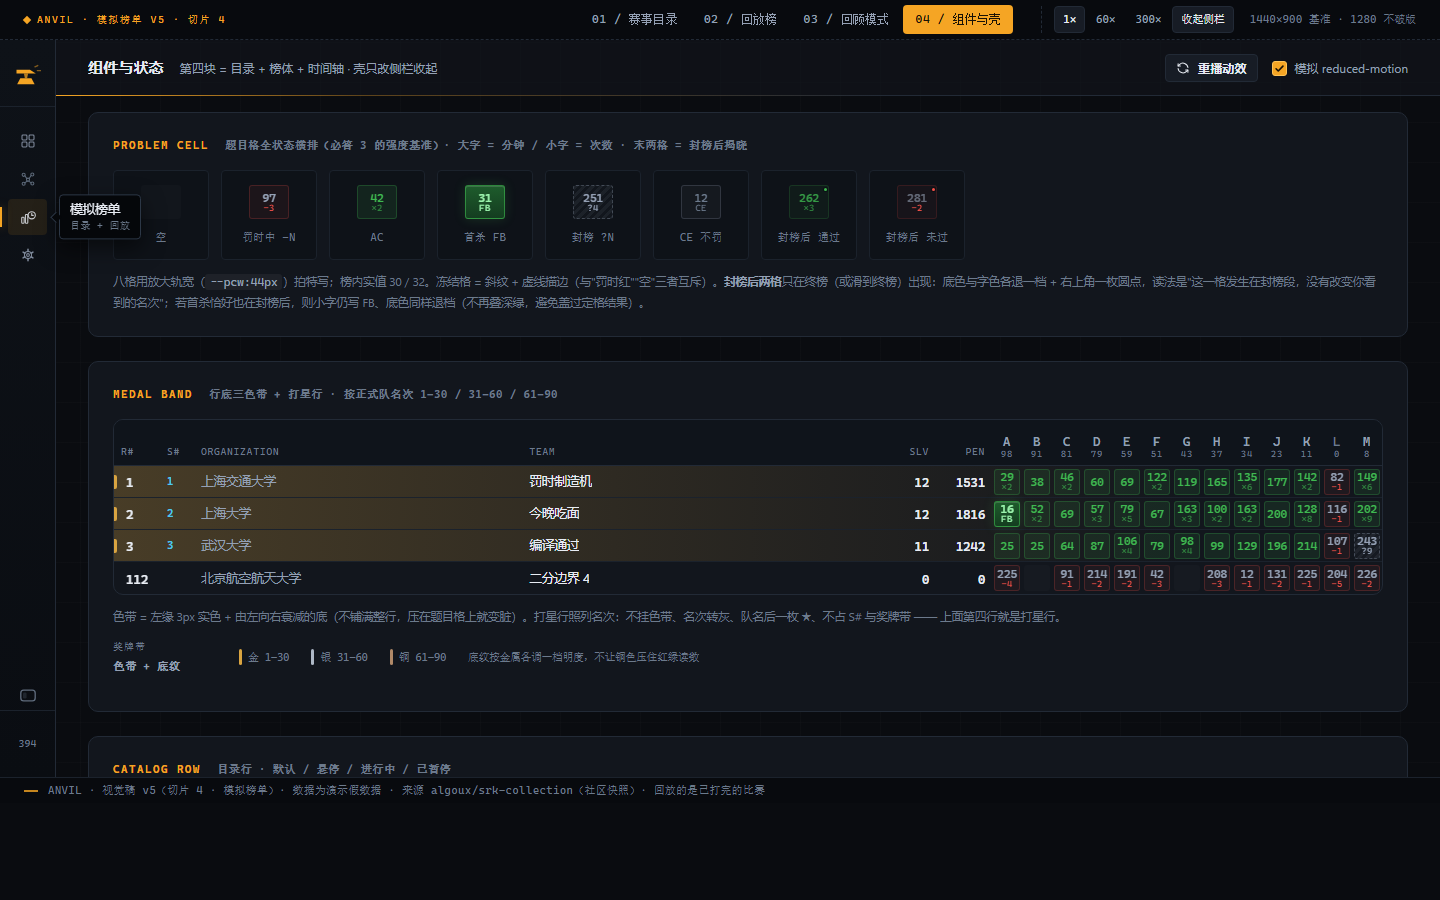
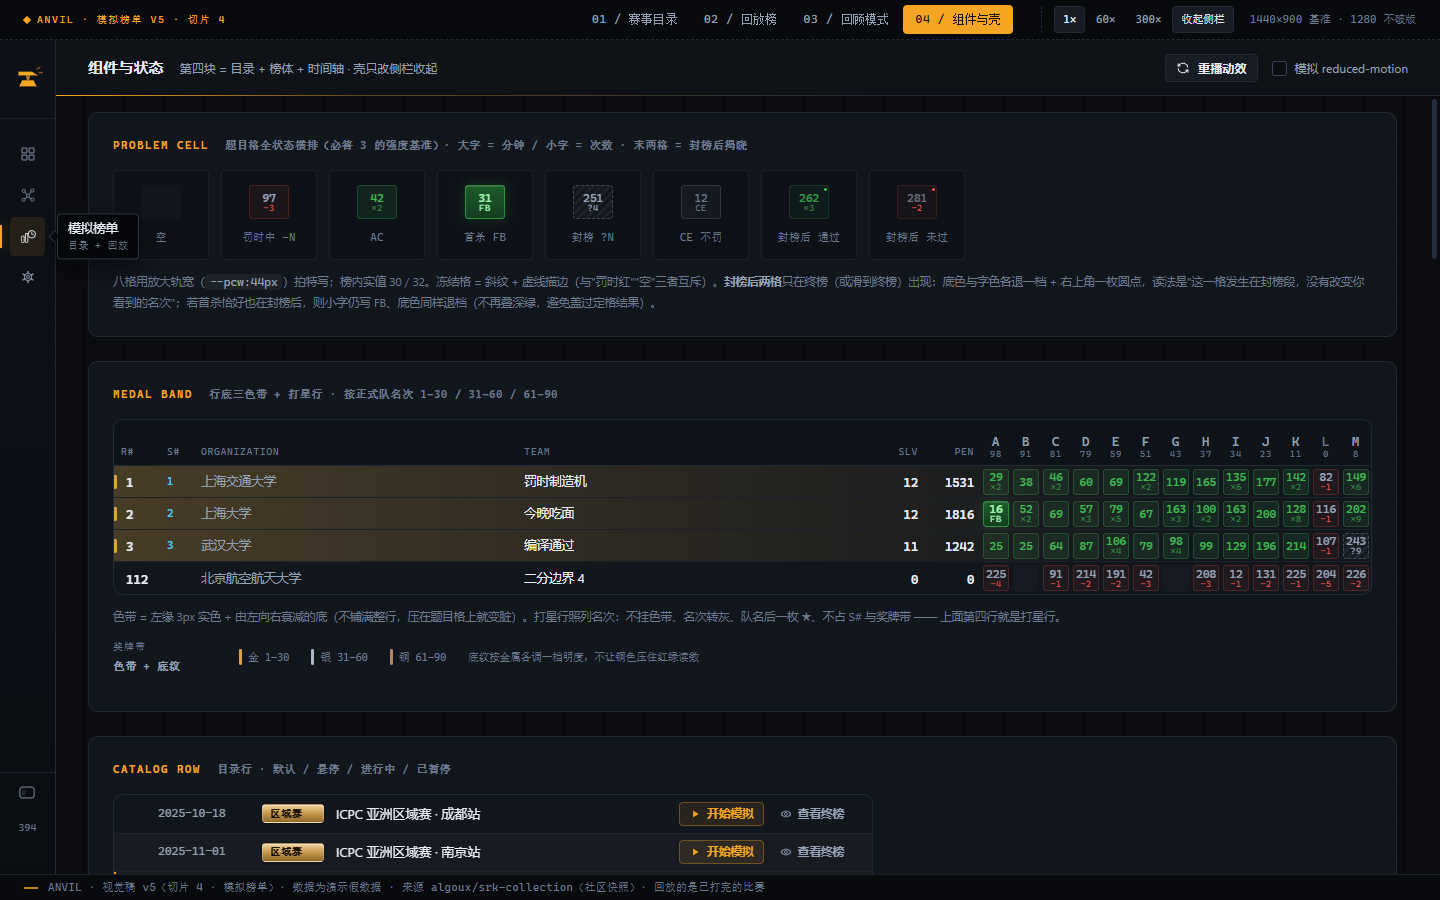
侧栏收放修订：底块定高 + 图标零位移 + 过渡补齐（180→360ms）
- 底部说明带定高（两态同高 102px）：隔断线不随收放移动，收起键恒在横线同侧
- 品牌/导航文字改 max-width 收宽 + 淡出（弃 display:none 瞬切）；收起键改
  右缘锚点 + translateX(-10px) 随宽度滑入（弃 left/right 瞬移）
- 收放过渡统一 360ms（--rail-dur = --dur 两倍），沿用同一缓动与 reduced-motion 直落
- 轨道态"不重排"：导航图标靠 base 内边距天然对中、品牌图标左锚 17px ——
  逐帧实测 svgX 恒 17 / footTop 恒 772 / footH 恒 102 / btnX 单调 191→124→17
- 重出 4 张受影响截图 + 新增 _shot-v5-s2-rail-mid.png（过渡中帧证据）
- s4 主张 4 补记（定高 + 360ms）；展开态几何零变化（其余 v5 截图不受影响）

diff --git a/design/mock-04-simboard.html b/design/mock-04-simboard.html
@@ -49,6 +49,7 @@
   --nav-w:220px;
 
   --dur:180ms;
+  --rail-dur:360ms;                                     /* 侧栏收放（宽度/文字/键位移）：常规动效的两倍 */
   --ease:cubic-bezier(.22,.71,.3,1);
 
   --bar-h:40px; --foot-h:26px;
@@ -147,7 +148,7 @@ code,.num{font-family:var(--font-num);font-variant-numeric:tabular-nums;font-fea
 .app{
   position:relative;--nav-now:var(--nav-w);
   display:grid;grid-template-columns:var(--nav-now) minmax(0,1fr);height:100%;min-height:0;
-  transition:grid-template-columns var(--dur) var(--ease);
+  transition:grid-template-columns var(--rail-dur) var(--ease);
 }
 .app.is-rail{--nav-now:var(--rail-w)}
 
@@ -157,9 +158,9 @@ code,.num{font-family:var(--font-num);font-variant-numeric:tabular-nums;font-fea
   background:linear-gradient(180deg,#0E1218,#0A0D12);
   border-right:1px solid var(--line);
 }
-.brand{display:flex;align-items:center;gap:11px;padding:var(--sp-3) var(--sp-2) var(--sp-3) 17px;border-bottom:1px solid var(--line-soft)}
+.brand{display:flex;align-items:center;gap:11px;height:79px;padding:0 var(--sp-2) 0 17px;border-bottom:1px solid var(--line-soft)}
 .brand svg{width:26px;height:26px;color:var(--accent);flex:0 0 auto}
-.brand__txt{min-width:0}
+.brand__txt{min-width:0;max-width:62px;overflow:hidden;transition:max-width var(--rail-dur) var(--ease),opacity var(--rail-dur) var(--ease)}
 .brand__name{font-family:var(--font-num);font-size:15px;font-weight:600;letter-spacing:.20em;color:var(--text);line-height:1}
 .brand__sub{font-size:10px;letter-spacing:.26em;color:var(--text-mute);margin-top:5px;line-height:1}
 
@@ -182,6 +183,7 @@ code,.num{font-family:var(--font-num);font-variant-numeric:tabular-nums;font-fea
 .navitem .lock{margin-left:auto;width:12px;height:12px;opacity:.7}
 
 .navfoot{
+  position:relative;height:102px;                       /* 定高：两态同一高度，隔断线不随收放移动 */
   margin-top:auto;padding:var(--sp-2) 17px var(--sp-3);
   border-top:1px solid var(--line-soft);
   font-family:var(--font-num);font-size:10.5px;line-height:1.95;color:var(--text-mute);
@@ -233,31 +235,38 @@ code,.num{font-family:var(--font-num);font-variant-numeric:tabular-nums;font-fea
   background:transparent;border:1px solid transparent;color:var(--text-mute);
   opacity:.42;                                          /* 常驻但安静：悬停整个 app 才提亮 */
   transition:opacity var(--dur) var(--ease),color var(--dur) var(--ease),
-             border-color var(--dur) var(--ease),background var(--dur) var(--ease);
+             border-color var(--dur) var(--ease),background var(--dur) var(--ease),
+             transform var(--rail-dur) var(--ease);
 }
 .railbtn svg{width:16px;height:13px;display:block}
 .rb-out{fill:none;stroke:currentColor;stroke-width:1.5}
 .rb-bar{fill:currentColor;opacity:.95}                    /* 展开 = 小竖条亮（面板在） */
-.is-rail .railbtn{right:auto;left:50%;transform:translateX(-50%);opacity:.88}
+.is-rail .railbtn{transform:translateX(-10px);opacity:.88}  /* 右缘锚点随宽度动画滑入 · -10px 补足到轨道居中 */
 .is-rail .rb-bar{opacity:.26}                             /* 收起 = 小竖条暗（面板没了） */
 .app:hover .railbtn,.app:focus-within .railbtn{opacity:1}
 .railbtn:hover{color:var(--text);border-color:var(--line);background:var(--panel-2)}
 .railbtn:active{background:#1A2028;color:var(--text)}
 
-.is-rail .brand{justify-content:center;padding:var(--sp-3) 0 var(--sp-2)}
-.is-rail .brand__txt{display:none}
+.is-rail .brand{padding:0 0 0 17px}
+.is-rail .brand__txt{max-width:0;opacity:0}
 /* 展开瞬间文字不能回行：过渡中轨道只有 56px，换行会把侧栏挤成一列竖字（闪一下的根因）
    —— 文字一律 nowrap，展开态把 nav 裁掉，宽度动画期间文字自左向右被逐步露出 */
 .navtxt,.brand__txt,.navfoot__full{white-space:nowrap}
+.navtxt{max-width:60px;overflow:hidden;transition:max-width var(--rail-dur) var(--ease),opacity var(--rail-dur) var(--ease)}
+.navitem .lock{transition:opacity var(--rail-dur) var(--ease)}
 .app:not(.is-rail) .nav{overflow:hidden}
-.is-rail .navlist{padding:var(--sp-2) 8px;align-items:stretch}
-.is-rail .navitem{justify-content:center;gap:0;padding:10px 0}
-.is-rail .navitem .navtxt,.is-rail .navitem .lock{display:none}
-.is-rail .navitem[aria-current="page"]::before{left:-8px}
-.is-rail .navfoot{padding:var(--sp-2) 0 var(--sp-3);display:flex;justify-content:center}
-.is-rail .navfoot__full{display:none}
-.navfoot__rail{display:none}
-.is-rail .navfoot__rail{display:flex;flex-direction:column;align-items:center;gap:7px;position:relative}
+/* 轨道态不重排：图标位置靠 base 内边距天然对中（10+10=20=轨道中心），只把文字与锁收宽淡出 */
+.is-rail .navitem .navtxt{max-width:0;opacity:0}
+.is-rail .navitem .lock{opacity:0}
+.is-rail .navfoot{padding:0}
+.navfoot__full{transition:opacity var(--rail-dur) var(--ease)}
+.is-rail .navfoot__full{opacity:0;pointer-events:none}
+.navfoot__rail{
+  position:absolute;left:0;right:0;top:50%;transform:translateY(-50%);
+  display:flex;flex-direction:column;align-items:center;gap:7px;
+  opacity:0;pointer-events:none;transition:opacity var(--rail-dur) var(--ease);
+}
+.is-rail .navfoot__rail{opacity:1;pointer-events:auto}
 .navfoot__rail .dot{cursor:default}
 .navfoot__rail b{font-family:var(--font-num);font-size:10px;color:var(--text-mute);font-weight:400;letter-spacing:.02em}
 
@@ -2013,7 +2022,9 @@ function renderTK(){
       +'状态写在图标自己身上，不需要额外文案。当前项保留琥珀左条 + 底色，只剩图标时仍能认出在哪一页。'
       +'<b>navfoot 只留符号</b>：一枚源状态点 + 计数 <code>394</code>，悬停出完整 navfoot 浮标 —— '
       +'三行小字在 56px 里必然碎掉，裁掉比压扁诚实。文字做法选<b>浮标</b>不选常驻：'
-      +'4 项不需要常驻标签，而浮标复用全站 tooltip 外观（箭头改指左）零新组件。</p></div></div>'
+      +'4 项不需要常驻标签，而浮标复用全站 tooltip 外观（箭头改指左）零新组件。'
++'底部带两态同高（定高）：隔断线不随收放移动；<b>收放过渡 360ms</b>（= --dur 的 2 倍）'
++'同步覆盖侧栏宽度 / 文字收宽淡出 / 键沿右缘滑移。</p></div></div>'
     +'</div></section>';
 
   $("#tk").innerHTML=sect;
